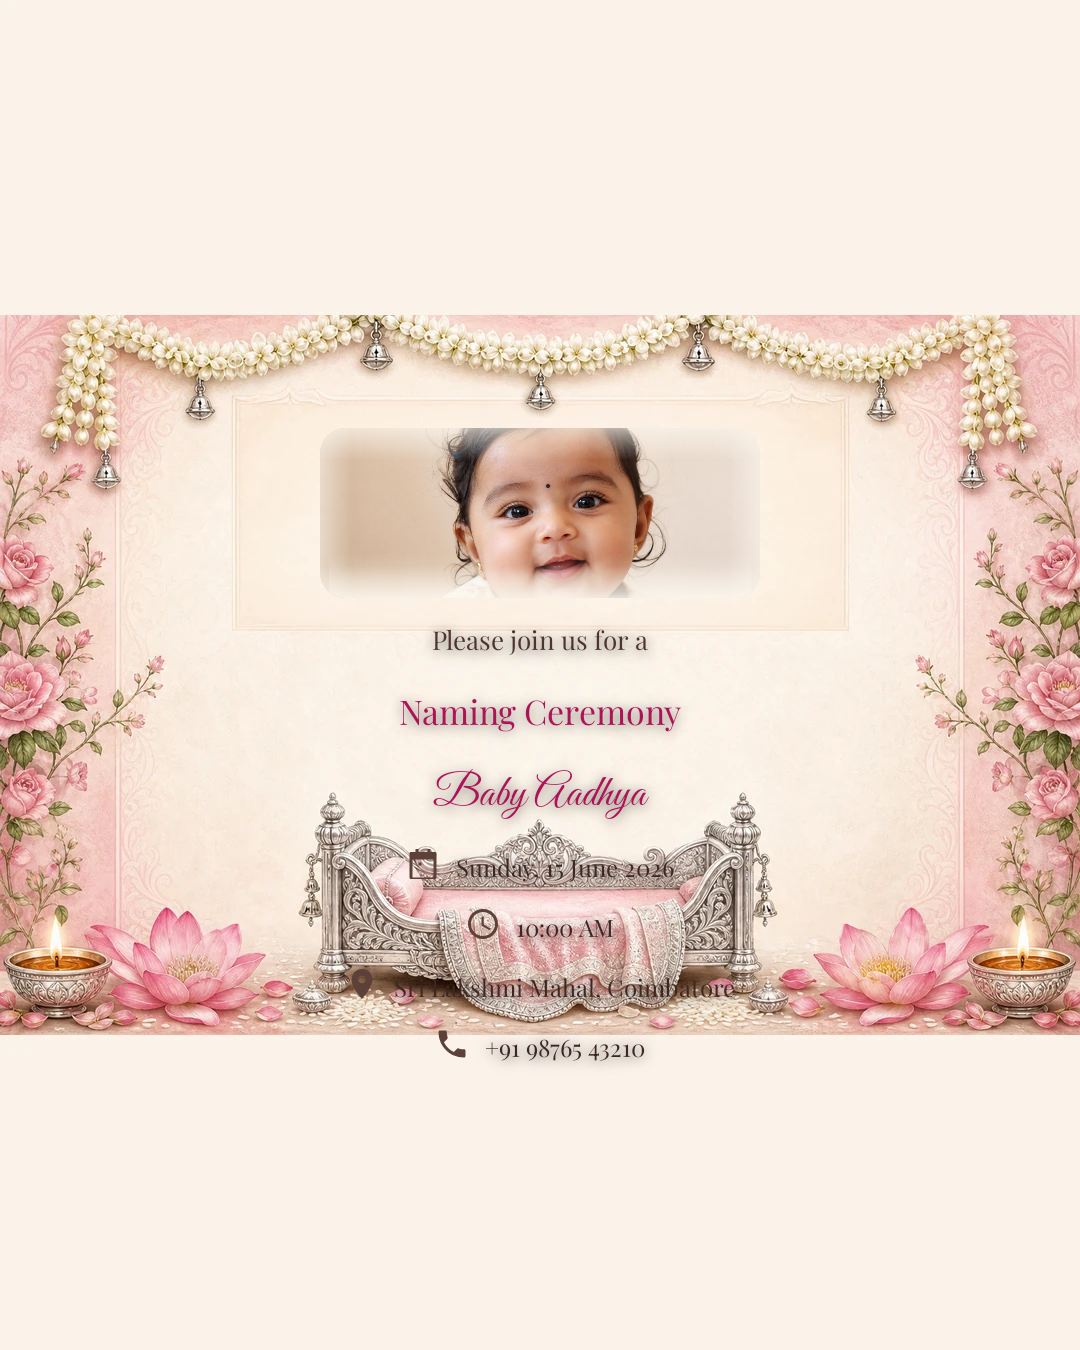
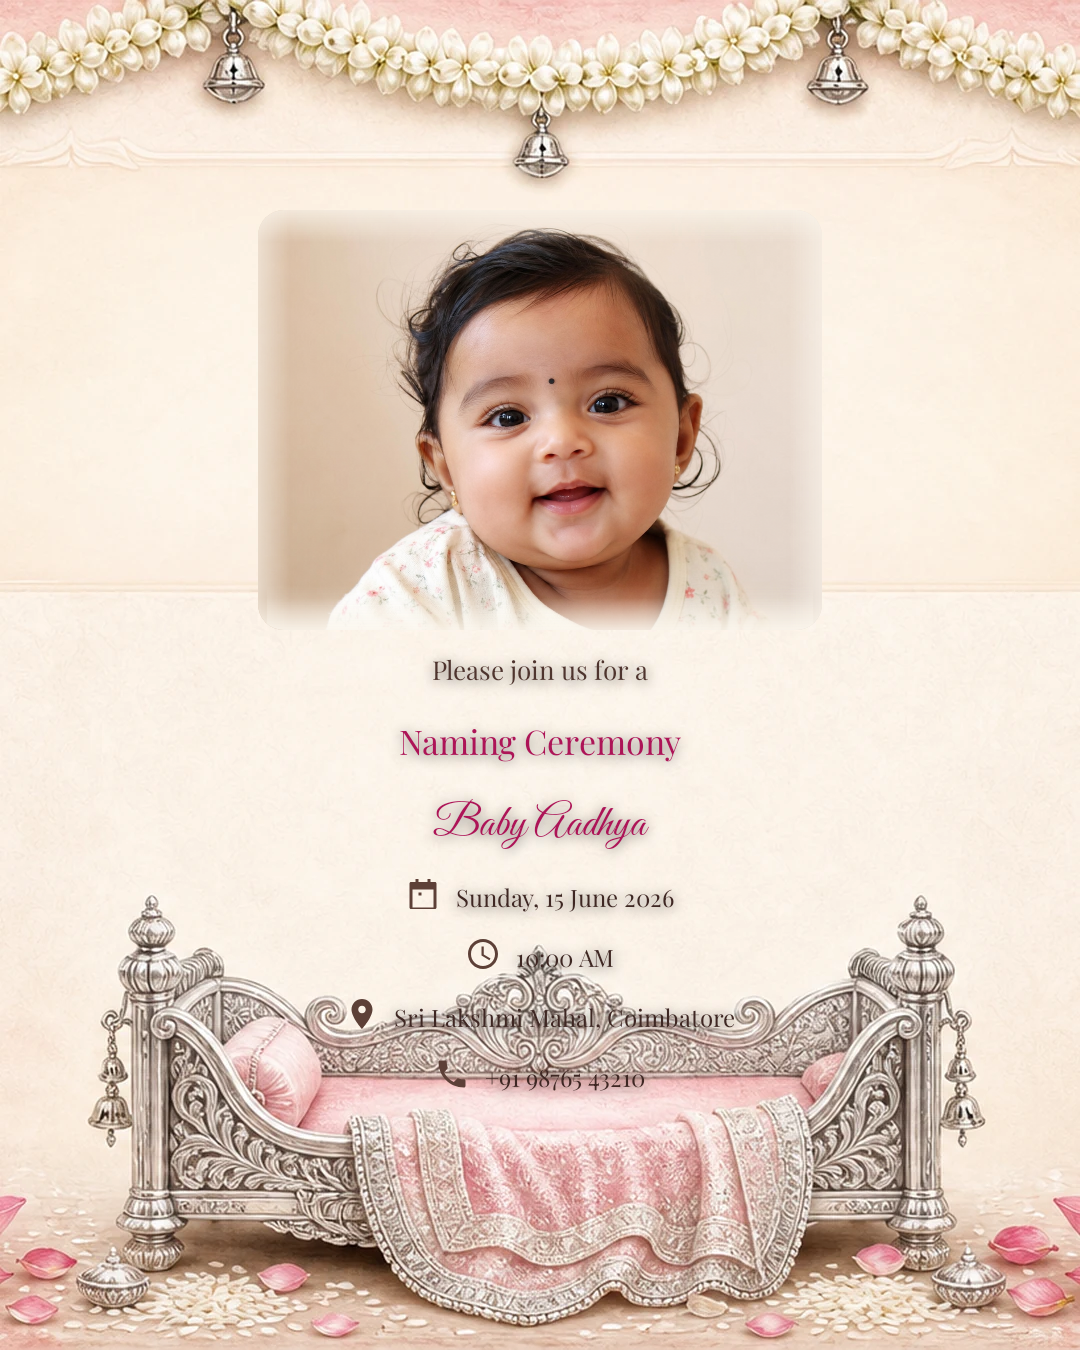
Fill engagement and naming cards with center-cover conversion
Landscape sources were width-fitted with ~315px cream letterbox top/bottom.
Switch fit_portrait_card to scale-to-cover 1080×1350, reconvert all engagement
and naming WebPs, and remeasure photo slot and text zones for full-bleed art.

diff --git a/app/src/main/java/com/vaangainvite/core/image/PhotoCardPlacement.kt b/app/src/main/java/com/vaangainvite/core/image/PhotoCardPlacement.kt
@@ -18,8 +18,8 @@ internal object PhotoCardPlacement {
         val cornerRadius: Float = 26f
     )
 
-    /** Smaller portrait slot — leaves more cream and shows side border art. */
-    private val traditionalPhoto = RectF(320f, 428f, 760f, 598f)
+    /** Portrait slot on full-bleed 1080×1350 WebPs (center-cover conversion, no letterbox). */
+    private val traditionalPhoto = RectF(258f, 210f, 822f, 630f)
 
     private val templateIds = (1..5).flatMap { i ->
         listOf("engagement_%02d".format(i), "naming_%02d".format(i))

diff --git a/app/src/main/java/com/vaangainvite/core/image/InvitationLayout.kt b/app/src/main/java/com/vaangainvite/core/image/InvitationLayout.kt
@@ -41,10 +41,10 @@ internal object InvitationLayout {
     private val photoCardTextZone = TextZoneSpec(
         left = 200f,
         right = 880f,
-        topNoPhoto = 608f,
-        topWithPhoto = 618f,
-        bottom = 1105f,
-        messageBottom = 1068f,
+        topNoPhoto = 638f,
+        topWithPhoto = 648f,
+        bottom = 1125f,
+        messageBottom = 1088f,
         photoTextGap = 14f
     )
 

diff --git a/tools/convert_photo_backgrounds.py b/tools/convert_photo_backgrounds.py
@@ -38,31 +38,15 @@ def sample_edge_color(im: Image.Image) -> tuple[int, int, int]:
 
 
 def fit_portrait_card(im: Image.Image) -> Image.Image:
-    """Scale to 1080×1350 without squashing; keep full width on landscape art (side borders)."""
+    """Scale to cover 1080×1350 — full-bleed card with no top/bottom letterbox bars."""
     w, h = im.size
-    target_ratio = TARGET_W / TARGET_H
-    current = w / h
-
-    if current > target_ratio:
-        # Wide designed art — scale to full card width so left/right décor is not cropped.
-        scale = TARGET_W / w
-        new_w = TARGET_W
-        new_h = max(1, int(h * scale))
-        im = im.resize((new_w, new_h), Image.Resampling.LANCZOS)
-        if new_h >= TARGET_H:
-            top = (new_h - TARGET_H) // 2
-            return im.crop((0, top, TARGET_W, top + TARGET_H))
-        fill = sample_edge_color(im)
-        out = Image.new("RGB", (TARGET_W, TARGET_H), fill)
-        out.paste(im, (0, (TARGET_H - new_h) // 2))
-        return out
-
-    scale = TARGET_W / w
-    new_w = TARGET_W
-    new_h = max(TARGET_H, int(h * scale))
+    scale = max(TARGET_W / w, TARGET_H / h)
+    new_w = max(1, int(w * scale))
+    new_h = max(1, int(h * scale))
     im = im.resize((new_w, new_h), Image.Resampling.LANCZOS)
-    top = max(0, (new_h - TARGET_H) // 2)
-    return im.crop((0, top, TARGET_W, top + TARGET_H))
+    left = (new_w - TARGET_W) // 2
+    top = (new_h - TARGET_H) // 2
+    return im.crop((left, top, left + TARGET_W, top + TARGET_H))
 
 
 def sample_panel_color(im: Image.Image) -> tuple[int, int, int]:

diff --git a/docs/samples/engagement/README.md b/docs/samples/engagement/README.md
@@ -16,6 +16,6 @@ Five **illustrated WebP** backgrounds (`bg_engagement_01` … `05`) with:
 
 ## Replace artwork
 
-1. Save designed PNGs as `tools/bg_sources/engagement_XX_source.png` (portrait ~4:5).
+1. Save designed PNGs as `tools/bg_sources/engagement_XX_source.png` (landscape ~3:2; converted with center-cover to 1080×1350).
 2. `python3 tools/convert_photo_backgrounds.py`
 3. `PREVIEW_OUTPUT_DIR=docs/samples/engagement ./gradlew testDebugUnitTest --tests "EngagementSampleExportTest"`

diff --git a/docs/samples/naming/README.md b/docs/samples/naming/README.md
@@ -14,4 +14,6 @@ Five **designed WebP** namakaran photo cards (same layout as engagement):
 | naming_04 | Moon & Lotus |
 | naming_05 | Tulsi Paladai Gold |
 
+Sources are landscape ~3:2; `convert_photo_backgrounds.py` uses center-cover to fill 1080×1350 (no top/bottom letterbox).
+
 Regenerate: `PREVIEW_OUTPUT_DIR=docs/samples/naming ./gradlew testDebugUnitTest --tests "NamingSampleExportTest"`
